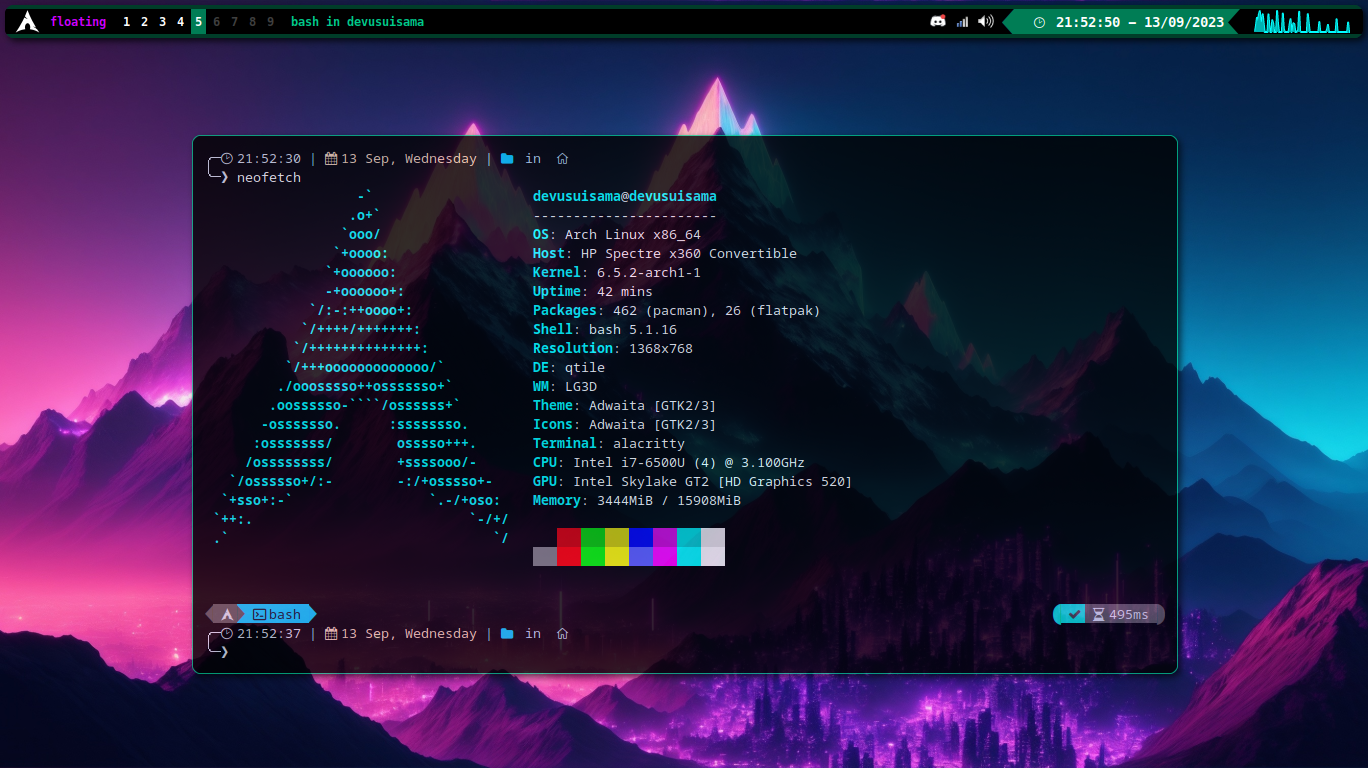
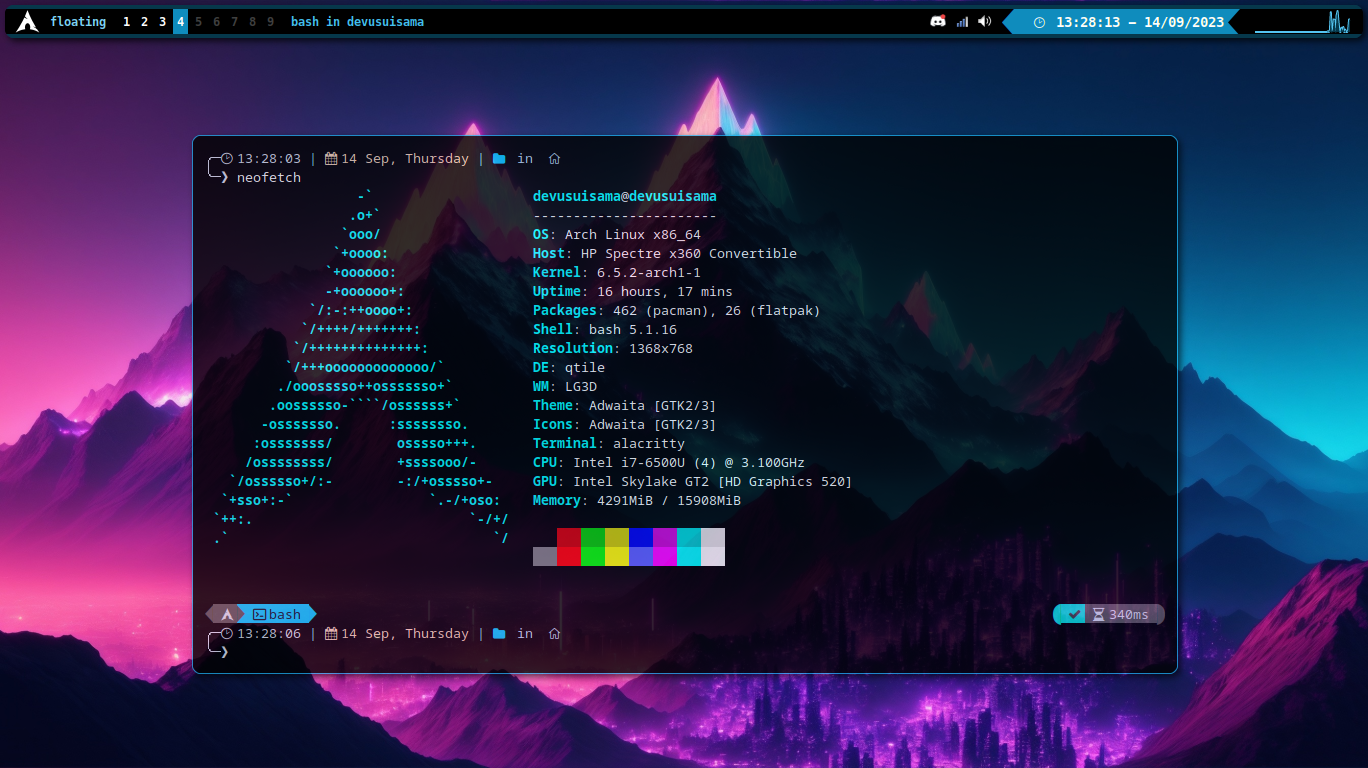
🛠 color update

diff --git a/qtile/screens.py b/qtile/screens.py
@@ -11,6 +11,15 @@ from libqtile.config import Screen
 
 
 def create_screens():
+    colors = {
+        "primary": "55C5F1",
+        "clock": "0F8CBD",
+        "group_box": "0F8CBD",
+        "bar_margin": "06384B",
+        "window_name": "42BFF0",
+        "current_layout": "7BD2F4"
+    }
+
     return [
         Screen(
             top=bar.Bar(
@@ -29,7 +38,7 @@ def create_screens():
                     ),
                     widget.CurrentLayout(
                         font="MesloLGMDZ Nerd Font Mono, Bold",
-                        foreground="CE00FF"
+                        foreground=colors["current_layout"]
                     ),
                     widget.Sep(
                         linewidth=0,
@@ -38,7 +47,7 @@ def create_screens():
                     widget.GroupBox(
                         active="#ffffff",
                         rounded=False,
-                        highlight_color="007D55",
+                        highlight_color=colors["group_box"],
                         highlight_method="line",
                         borderwidth=0
                     ),
@@ -48,7 +57,7 @@ def create_screens():
                     ),
                     # widget.Prompt(),
                     widget.WindowName(
-                        foreground="#00CA8A",
+                        foreground=colors["window_name"],
                         markup=True,
                         font="MesloLGMDZ Nerd Font Mono, Bold",
                         fontsize=12,
@@ -71,7 +80,7 @@ def create_screens():
                     ),
                     widget.TextBox(
                         text='',
-                        foreground="007D55",
+                        foreground=colors["clock"],
                         padding=0,
                         fontsize=42
                     ),
@@ -79,24 +88,24 @@ def create_screens():
                         font="MesloLGMDZ Nerd Font Mono, Bold",
                         fontsize=18,
                         text='',
-                        background="007D55",
+                        background=colors["clock"],
                         foreground="fff",
                         padding=7
                     ),
                     widget.Clock(
                         font="MesloLGMDZ Nerd Font Mono, Bold",
                         fontsize=14,
-                        background="007D55",
+                        background=colors["clock"],
                         foreground="fff",
                         format="%H:%M:%S - %d/%m/%Y",
-                        #update_interval=60.0,
+                        # update_interval=60.0,
                         update_interval=1.0,
                         timezone=pytz.timezone(
                             "America/Argentina/Buenos_Aires")
                     ),
                     widget.TextBox(
                         text='',
-                        background="007D55",
+                        background=colors["clock"],
                         foreground="000",
                         padding=0,
                         fontsize=42
@@ -108,9 +117,9 @@ def create_screens():
                         margin_y=0,
                         border_color="000",
                         background="000",
-                        fill_color="00b2b2",
+                        fill_color=colors["bar_margin"],
                         frequency=1,
-                        graph_color="00FFFF",
+                        graph_color=colors["primary"],
                         line_width=2,
                         sample=100,
                         type="linefill"
@@ -126,7 +135,7 @@ def create_screens():
                 margin=[5, 5, 1, 5],
                 background="000000",
                 border_width=4,  # Draw top and bottom borders
-                border_color=["003D29", "000000", "003D29",
+                border_color=[colors["bar_margin"], "000000", colors["bar_margin"],
                               "000000"]  # Borders are magenta
             ),
             wallpaper="~/Imágenes/paisaje2.jpeg",

diff --git a/qtile/layouts.py b/qtile/layouts.py
@@ -12,7 +12,7 @@ def create_layouts():
     default = {
         "border_width": 1,
         "margin": 5,
-        "border_focus": "00CA8A",
+        "border_focus": "1DB2ED",
         "border_normal": "1D2330",
         "single_border_width": 0,
         "single_margin": 10,
@@ -37,9 +37,9 @@ def create_layouts():
             section_fontsize=10,
             border_width=2,
             bg_color="000000",
-            active_bg="00CA8A",
+            active_bg="55C5F1",
             active_fg="000",
-            inactive_bg="006545",
+            inactive_bg="0F8CBD",
             inactive_fg="1c1f24",
             padding_left=0,
             padding_x=0,
